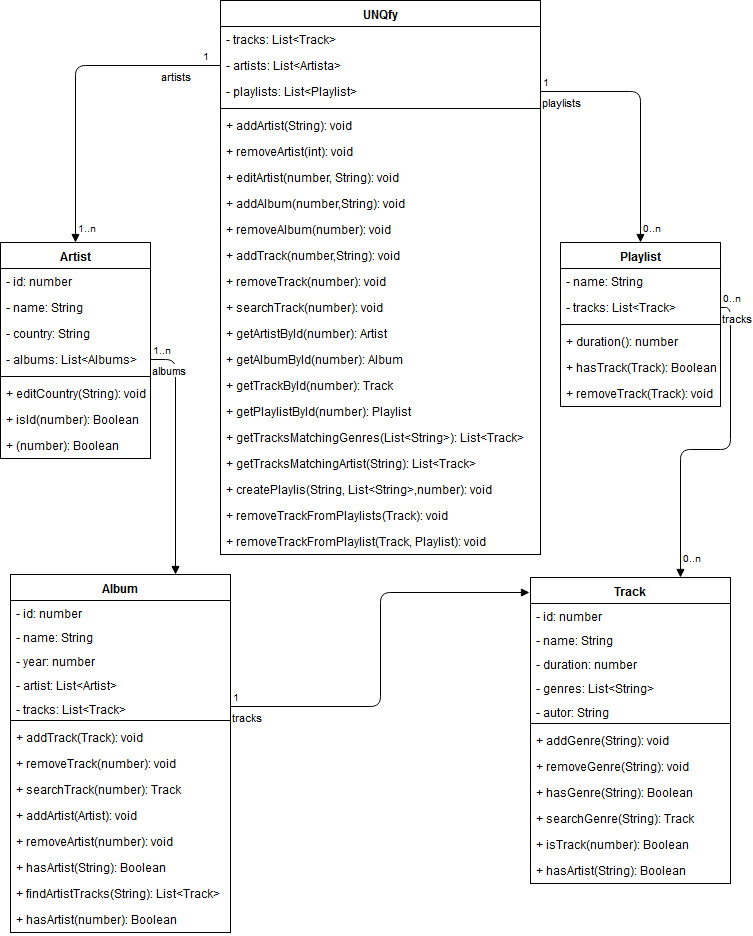
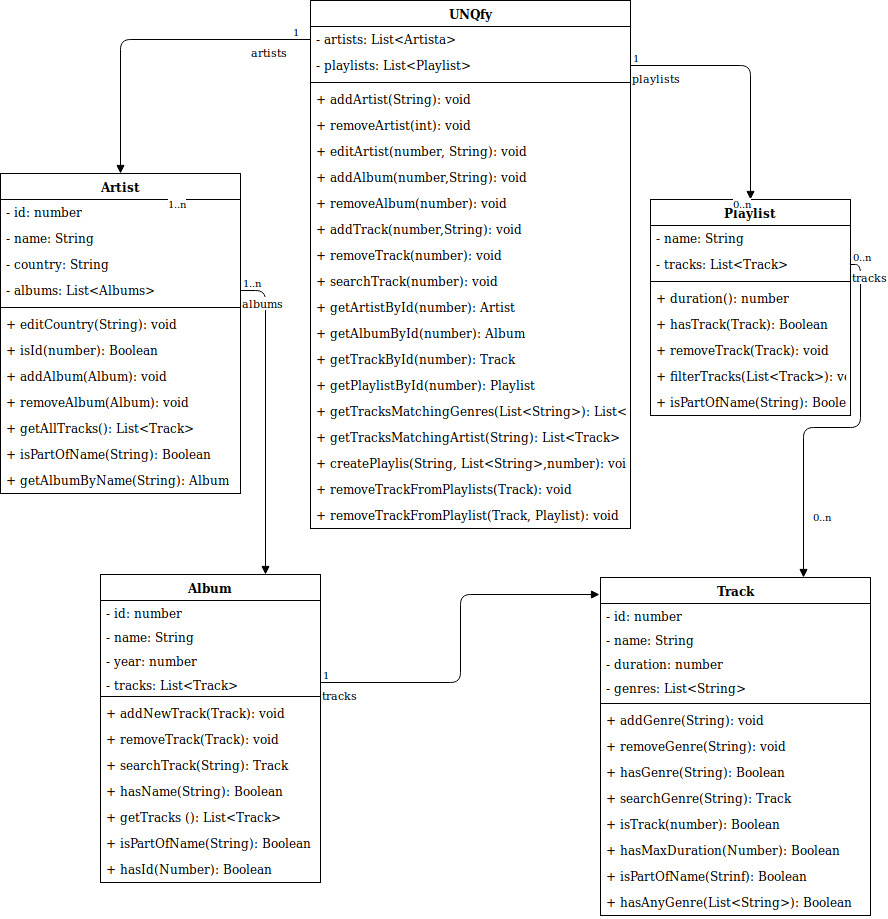
Arreglado el UML, Algunos comandos implementados

diff --git a/UNQfy/main.js b/UNQfy/main.js
@@ -17,6 +17,7 @@ function saveUNQfy(unqfy, filename = 'data.json') {
 }
 
 //dar de alta
+/*
 function addArtist(unqfy, params) {
   unqfy.addArtist(params);
   console.log("Artist successfully added.");
@@ -46,6 +47,7 @@ function removeAlbum(unqfy, params) {
   unqfy.removeAlbum(params);
   console.log("Album successfully removed.");
 }
+*/
 ///////////
 /*
  En esta funcion deberán interpretar los argumentos pasado por linea de comandos
@@ -81,6 +83,60 @@ function main() {
   
   console.log('arguments: ');
   process.argv.forEach(argument => console.log(argument));
+
+  const args = process.argv.slice(2);
+  if (args[0] === 'addArtist')
+  {
+    const unqfy = getUNQfy();
+    unqfy.addArtist(
+      {
+        name: args[1],
+        country: args[2],
+      }
+    );
+    saveUNQfy(unqfy);
+    console.log('Artist successfully added.');
+  }
+
+  if (args[0] === 'getArtists')
+  {
+    const unqfy = getUNQfy();
+    unqfy.getArtists();
+    console.log(unqfy.getArtists());
+    saveUNQfy(unqfy);
+  }
+  /*
+  if (args[0] === "removeArtist")
+  {
+    const unqfy = getUNQfy();
+    unqfy.removeArtist(args[1]);
+    saveUNQfy(unqfy);
+  }
+*/
+  if (args[0] === 'getAlbumByArtist')
+  {
+    const unqfy = getUNQfy();
+    unqfy.getAlbumByArtist(args[1]);
+    console.log(unqfy.getAlbumByArtist(args[1]));
+    saveUNQfy(unqfy);
+  }
+
+  /*
+  if (args[0] === 'addAlbum')
+  {
+    const unqfy = getUNQfy();
+    unqfy.addAlbum(args[1],
+      {
+        name: args[2],
+        year: args[3],
+      }
+    );
+    saveUNQfy(unqfy);
+    console.log('Album successfully added.');
+  }
+  */
+
+  
 }
 
 main();

diff --git a/UNQfy/unqfy.js b/UNQfy/unqfy.js
@@ -101,9 +101,12 @@ class UNQfy {
 
   getAllTracksFromAlbums(albumList)
   {
-    return albumList.map(album => album.getTracks()).reduce((a,b) => {
+    let allTracks = albumList.map(album => album.getTracks());
+    
+    let result = allTracks.reduce((a,b) => {
       return a.concat(b);
     });
+    return result;
   }
 
   // albumData: objeto JS con los datos necesarios para crear un album
@@ -119,6 +122,7 @@ class UNQfy {
     const newAlbum = new Album(this.getId(), albumData.name, albumData.year);
     //this.ids = this.id+1;
     this.getArtistById(artistId).addAlbum(newAlbum);
+    console.log(newAlbum);
     return newAlbum;
   }
 
@@ -307,7 +311,7 @@ class UNQfy {
     }
     return this.getTracksByAlbum(this.getAlbumByArtist(artist.name).name);
     */
-    let albumsFromArtist = this.getAlbumByArtist(artist);
+    let albumsFromArtist = this.getAlbumByArtist(artist.getName());
     return this.getAllTracksFromAlbums(albumsFromArtist);
   }
 
@@ -331,8 +335,9 @@ class UNQfy {
   }
 
   // retorna: todos los albums del artista
-  getAlbumByArtist(artist)
+  getAlbumByArtist(artistName)
   {
+    let artist = this.findArtist(artistName);
     return artist.getAlbums();
   }
 
